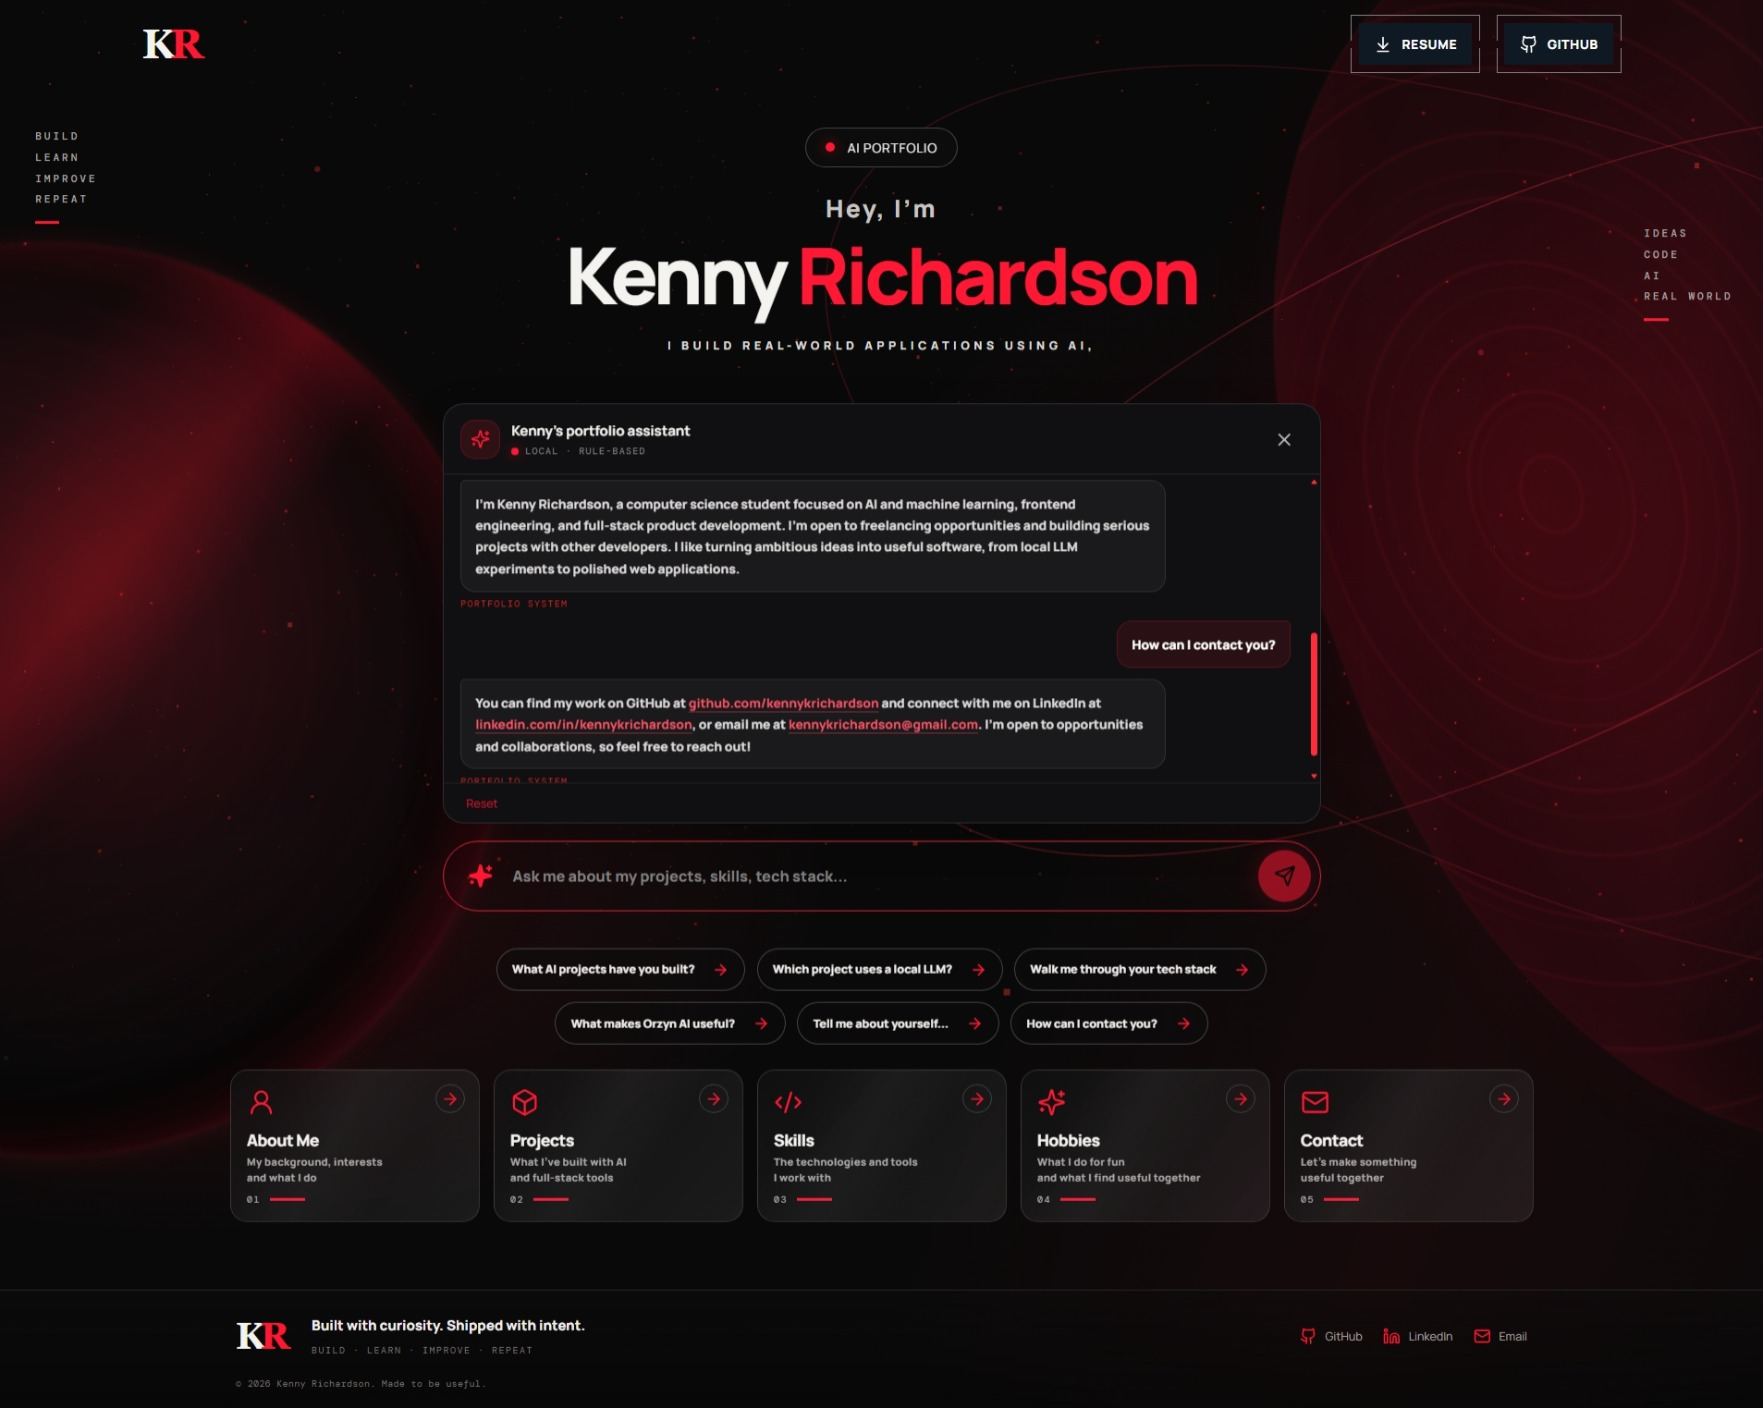
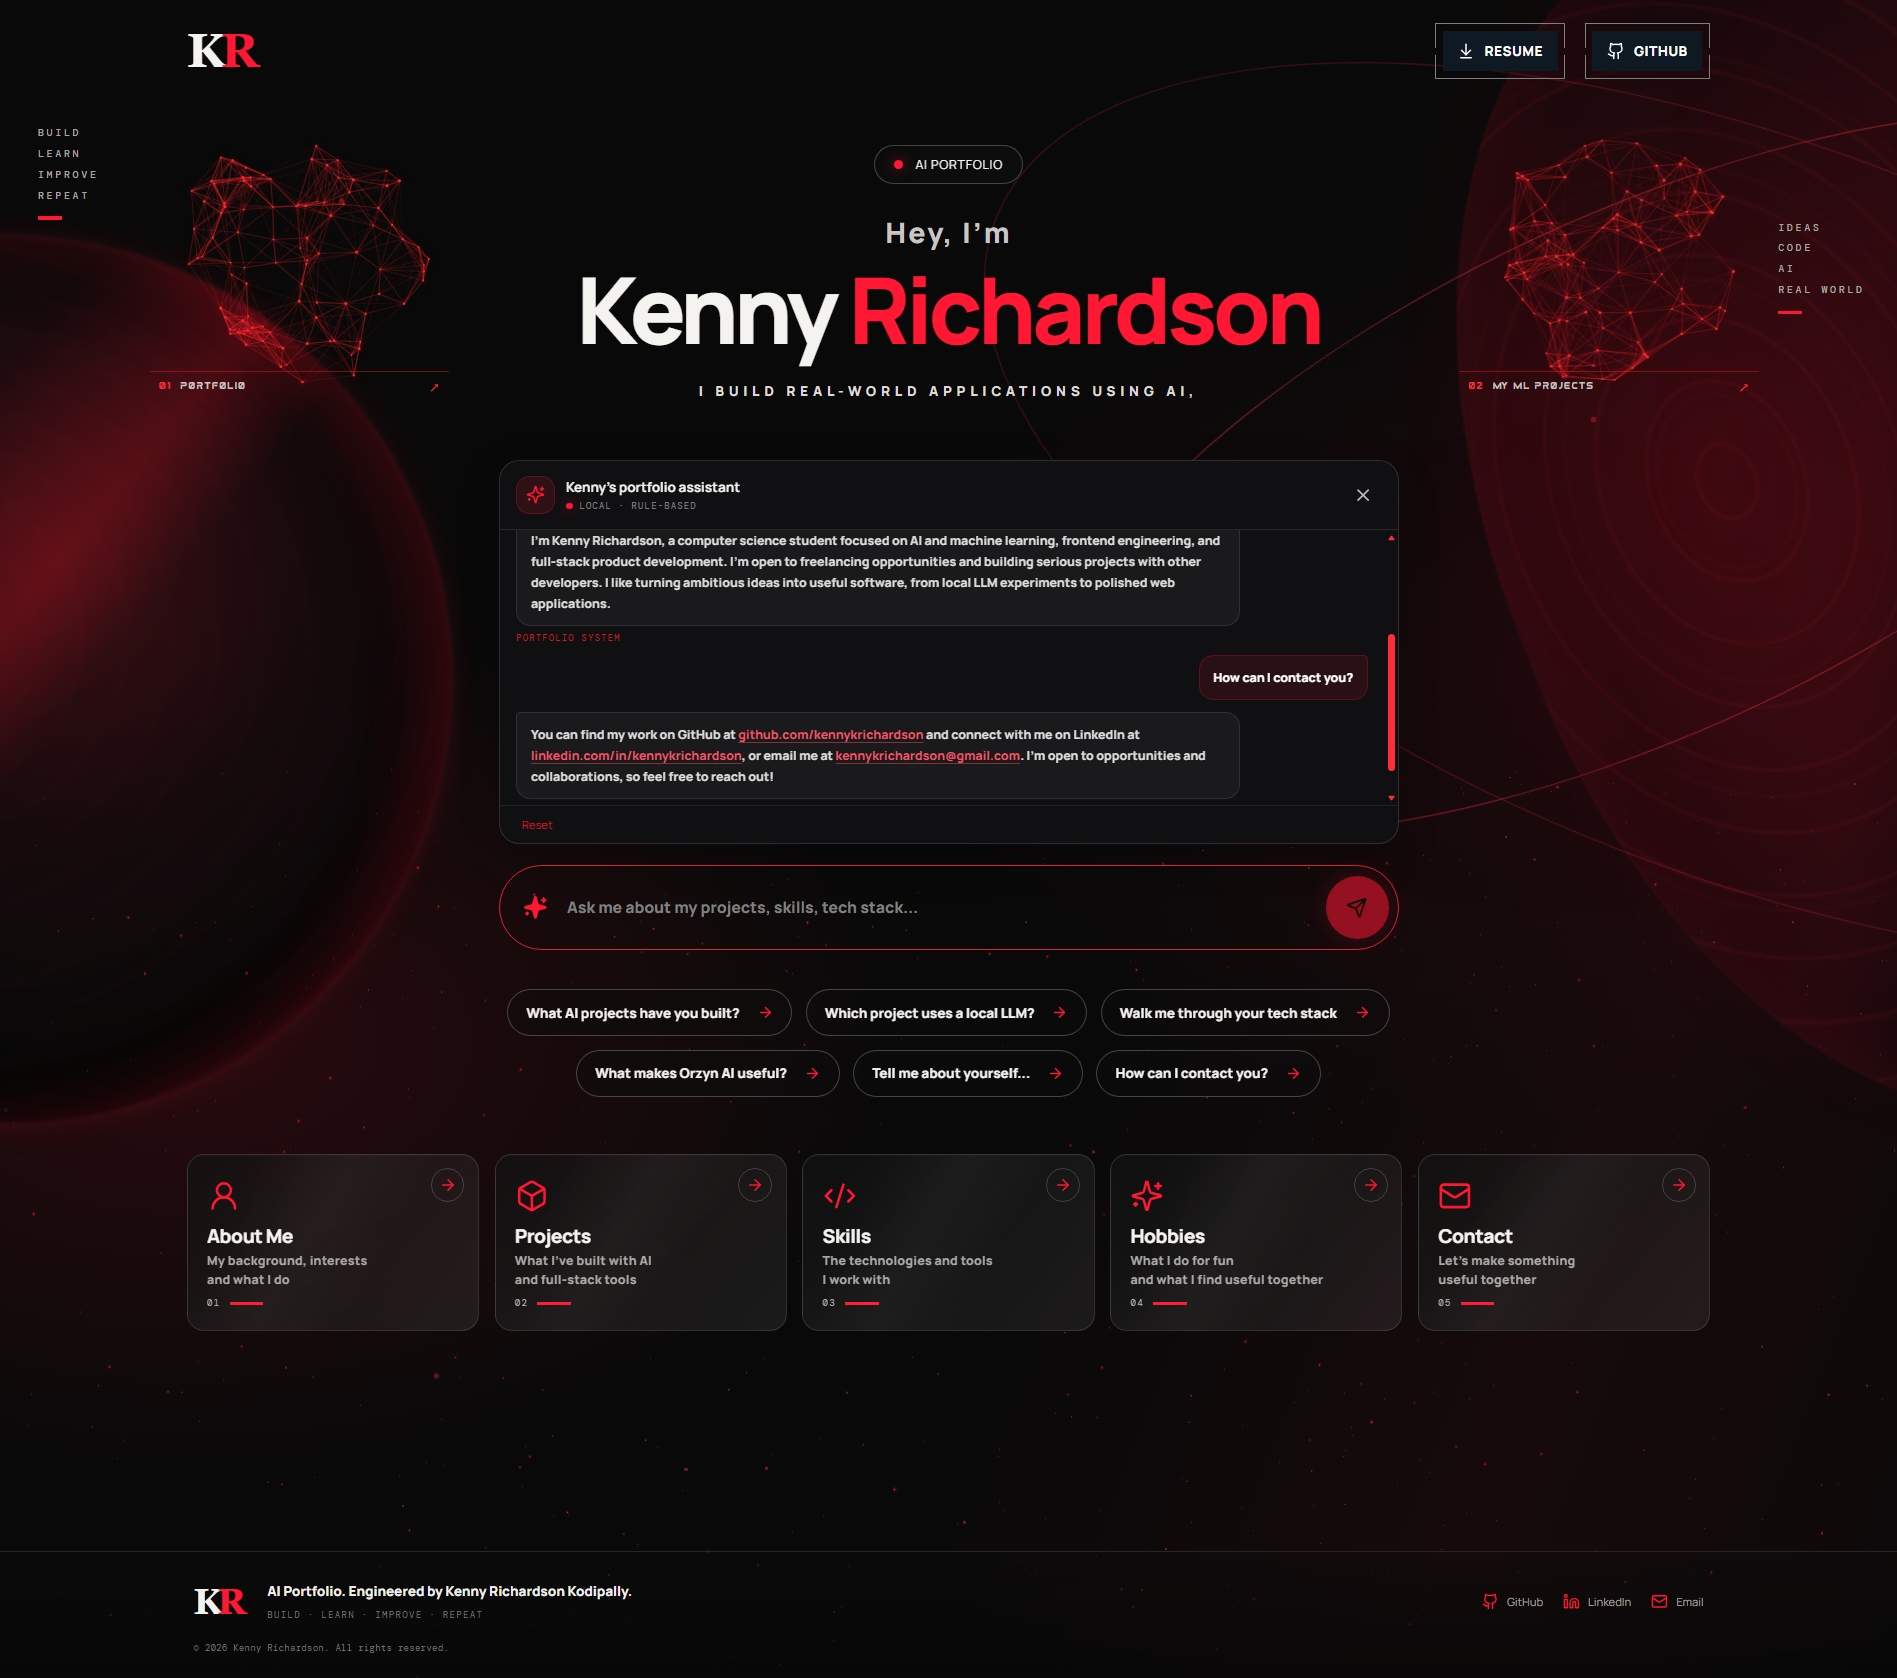
feat(ui): minor updates

diff --git a/src/styles.css b/src/styles.css
@@ -638,10 +638,6 @@ background: rgba(8, 8, 8, .12);
   text-decoration: none;
   isolation: isolate;
 
-  /* Full-component touch target */
-  pointer-events: auto;
-  touch-action: manipulation;
-  -webkit-tap-highlight-color: transparent;
 }
 
 .hero-neural-link .neural-link__visual {
@@ -649,11 +645,6 @@ background: rgba(8, 8, 8, .12);
   inset: 0;
   display: block;
   overflow: hidden;
-  pointer-events: none;
-}
-
-/* Make the entire NeuralLink area respond to touch */
-.hero-neural-link .neural-link > * {
   pointer-events: none;
 }
 
@@ -739,3 +730,89 @@ background: rgba(8, 8, 8, .12);
 }
 
 
+
+
+/* Desktop 120% design pass: scale the layout's real dimensions, not browser zoom. */
+@media (min-width: 1101px) {
+  :root {
+    --content-width: 1354px;
+  }
+
+  .topbar {
+    min-height: 91px;
+    width: min(var(--content-width), calc(100% - 9vw));
+  }
+
+  .brand { font-size: 43px; }
+  .top-actions { gap: 17px; }
+  .magnetic-button { font-size: 12px; }
+  .hero {
+    min-height: 486px;
+    padding: 38px 29px 0;
+  }
+  .hero-intro { font-size: 25px; margin-top: 24px; }
+  .hero h1 {
+    font-size: clamp(55px, 6vw, 82px);
+    letter-spacing: -4px;
+  }
+  .hero-tagline {
+    margin: 13px 0 47px;
+    font-size: 12px;
+    letter-spacing: 4.3px;
+  }
+  .chat-area {
+    width: min(100%, 912px);
+    gap: 18px;
+  }
+  .chat-input { min-height: 76px; }
+  .chat-input input { font-size: 14px; }
+  .send-button { width: 56px; height: 56px; }
+  .quick-prompts { gap: 12px; font-size: 11px; }
+  .prompt-chip { padding: 12px 16px; font-size: 12px; }
+  .feature-grid {
+    width: min(var(--content-width), calc(100% - 12vw));
+    gap: 14px;
+    margin-top: 29px;
+  }
+  .feature-card { min-height: 158px; padding: 16px 17px 13px; }
+  .feature-card h2 { font-size: 17px; }
+  .feature-card p { font-size: 11px; }
+  .feature-icon { width: 30px; height: 30px; }
+  .feature-arrow { width: 30px; height: 30px; }
+  .site-footer {
+    margin-top: max(70px, 24vh);
+    padding-top: 27px;
+    padding-bottom: 22px;
+  }
+}
+
+/* Keep the footer below the initial viewport on every screen size. */
+.site-footer {
+  margin-top: max(58px, 24vh);
+}
+
+/* NeuralLink: desktop remains a full visual hit area; mobile gets a deliberate
+   smaller hit target inside the network, never on its label. */
+.hero-neural-link .neural-link {
+  position: relative;
+}
+.hero-neural-link .neural-link__hit-target {
+  position: absolute;
+  inset: 0;
+  z-index: 5;
+  display: block;
+  border-radius: 50%;
+  cursor: pointer;
+  -webkit-tap-highlight-color: transparent;
+}
+.hero-neural-link .neural-link__hit-target:focus-visible {
+  outline: 2px solid var(--red);
+  outline-offset: -5px;
+}
+
+@media (max-width: 760px) {
+  .hero-neural-link .neural-link__hit-target {
+    inset: 24% 25% 34%;
+    border-radius: 50%;
+  }
+}

diff --git a/src/App.tsx b/src/App.tsx
@@ -152,7 +152,7 @@ export default function App() {
     setChatOpen(true)
     if (feature === 'projects') setProjectsOpen(true)
     if (feature === 'skills') setSkillsOpen(true)
-    if (feature === 'about' || feature === 'contact' || feature === 'hobbies') setInfoOpen(feature)
+    if (feature === 'contact') setInfoOpen(feature)
     sendMessage(featureQuestions[feature], feature)
     if (feature !== 'projects') inputRef.current?.focus({ preventScroll: true })
   }
@@ -277,7 +277,7 @@ export default function App() {
       <footer className="site-footer" aria-label="Portfolio footer">
         <div className="footer-brand"><a className="brand" href="#home" aria-label="Back to top"><span>K</span><b>R</b></a></div>
         <div className="footer-copy">
-          <strong>Built with curiosity. Shipped with intent.</strong>
+          <strong>AI Portfolio. Engineered by Kenny Richardson Kodipally.</strong>
           <span>BUILD · LEARN · IMPROVE · REPEAT</span>
         </div>
         <nav className="footer-links" aria-label="Contact links">
@@ -285,7 +285,7 @@ export default function App() {
           <a href={siteContent.linkedin} target="_blank" rel="noreferrer"><Linkedin size={15} /> LinkedIn</a>
           <a href={`mailto:${siteContent.email}`}><Mail size={15} /> Email</a>
         </nav>
-        <p className="footer-copyright">© 2026 Kenny Richardson. Made to be useful.</p>
+        <p className="footer-copyright">© 2026 Kenny Richardson. All rights reserved.</p>
       </footer>
 
       {infoOpen && (

diff --git a/src/components/NeuralLink.tsx b/src/components/NeuralLink.tsx
@@ -202,16 +202,10 @@ export function NeuralLink({ href, label, index }: NeuralLinkProps) {
   }, []);
 
   return (
-    <motion.a
+    <motion.div
       className="neural-link"
-      href={href}
-      target="_blank"
-      rel="noopener noreferrer"
-      aria-label={`Open ${label}`}
       initial={{ opacity: 0, y: 18 }}
       animate={{ opacity: 1, y: 0 }}
-      whileHover={{ y: -5 }}
-      whileTap={{ scale: 0.985 }}
       transition={{ duration: 0.45 }}
     >
       <span className="neural-link__visual" aria-hidden="true">
@@ -222,6 +216,13 @@ export function NeuralLink({ href, label, index }: NeuralLinkProps) {
         <span className="neural-link__label">{label}</span>
         <span className="neural-link__arrow" aria-hidden="true">↗</span>
       </span>
-    </motion.a>
+      <a
+        className="neural-link__hit-target"
+        href={href}
+        target="_blank"
+        rel="noopener noreferrer"
+        aria-label={`Open ${label}`}
+      />
+    </motion.div>
   );
 }

diff --git a/README.md b/README.md
@@ -71,7 +71,11 @@ An OCR-powered application that extracts text from images.
 
 ### Nexus Page
 
-![Nexus](screenshots/nexuspage.jpeg)
+![Nexus](screenshots/nexuspage.png)
+
+### Nexus Page - Home View
+
+![Nexus](screenshots/nexuspage.png)
 
 ------------------------------------------------------------------------
 
